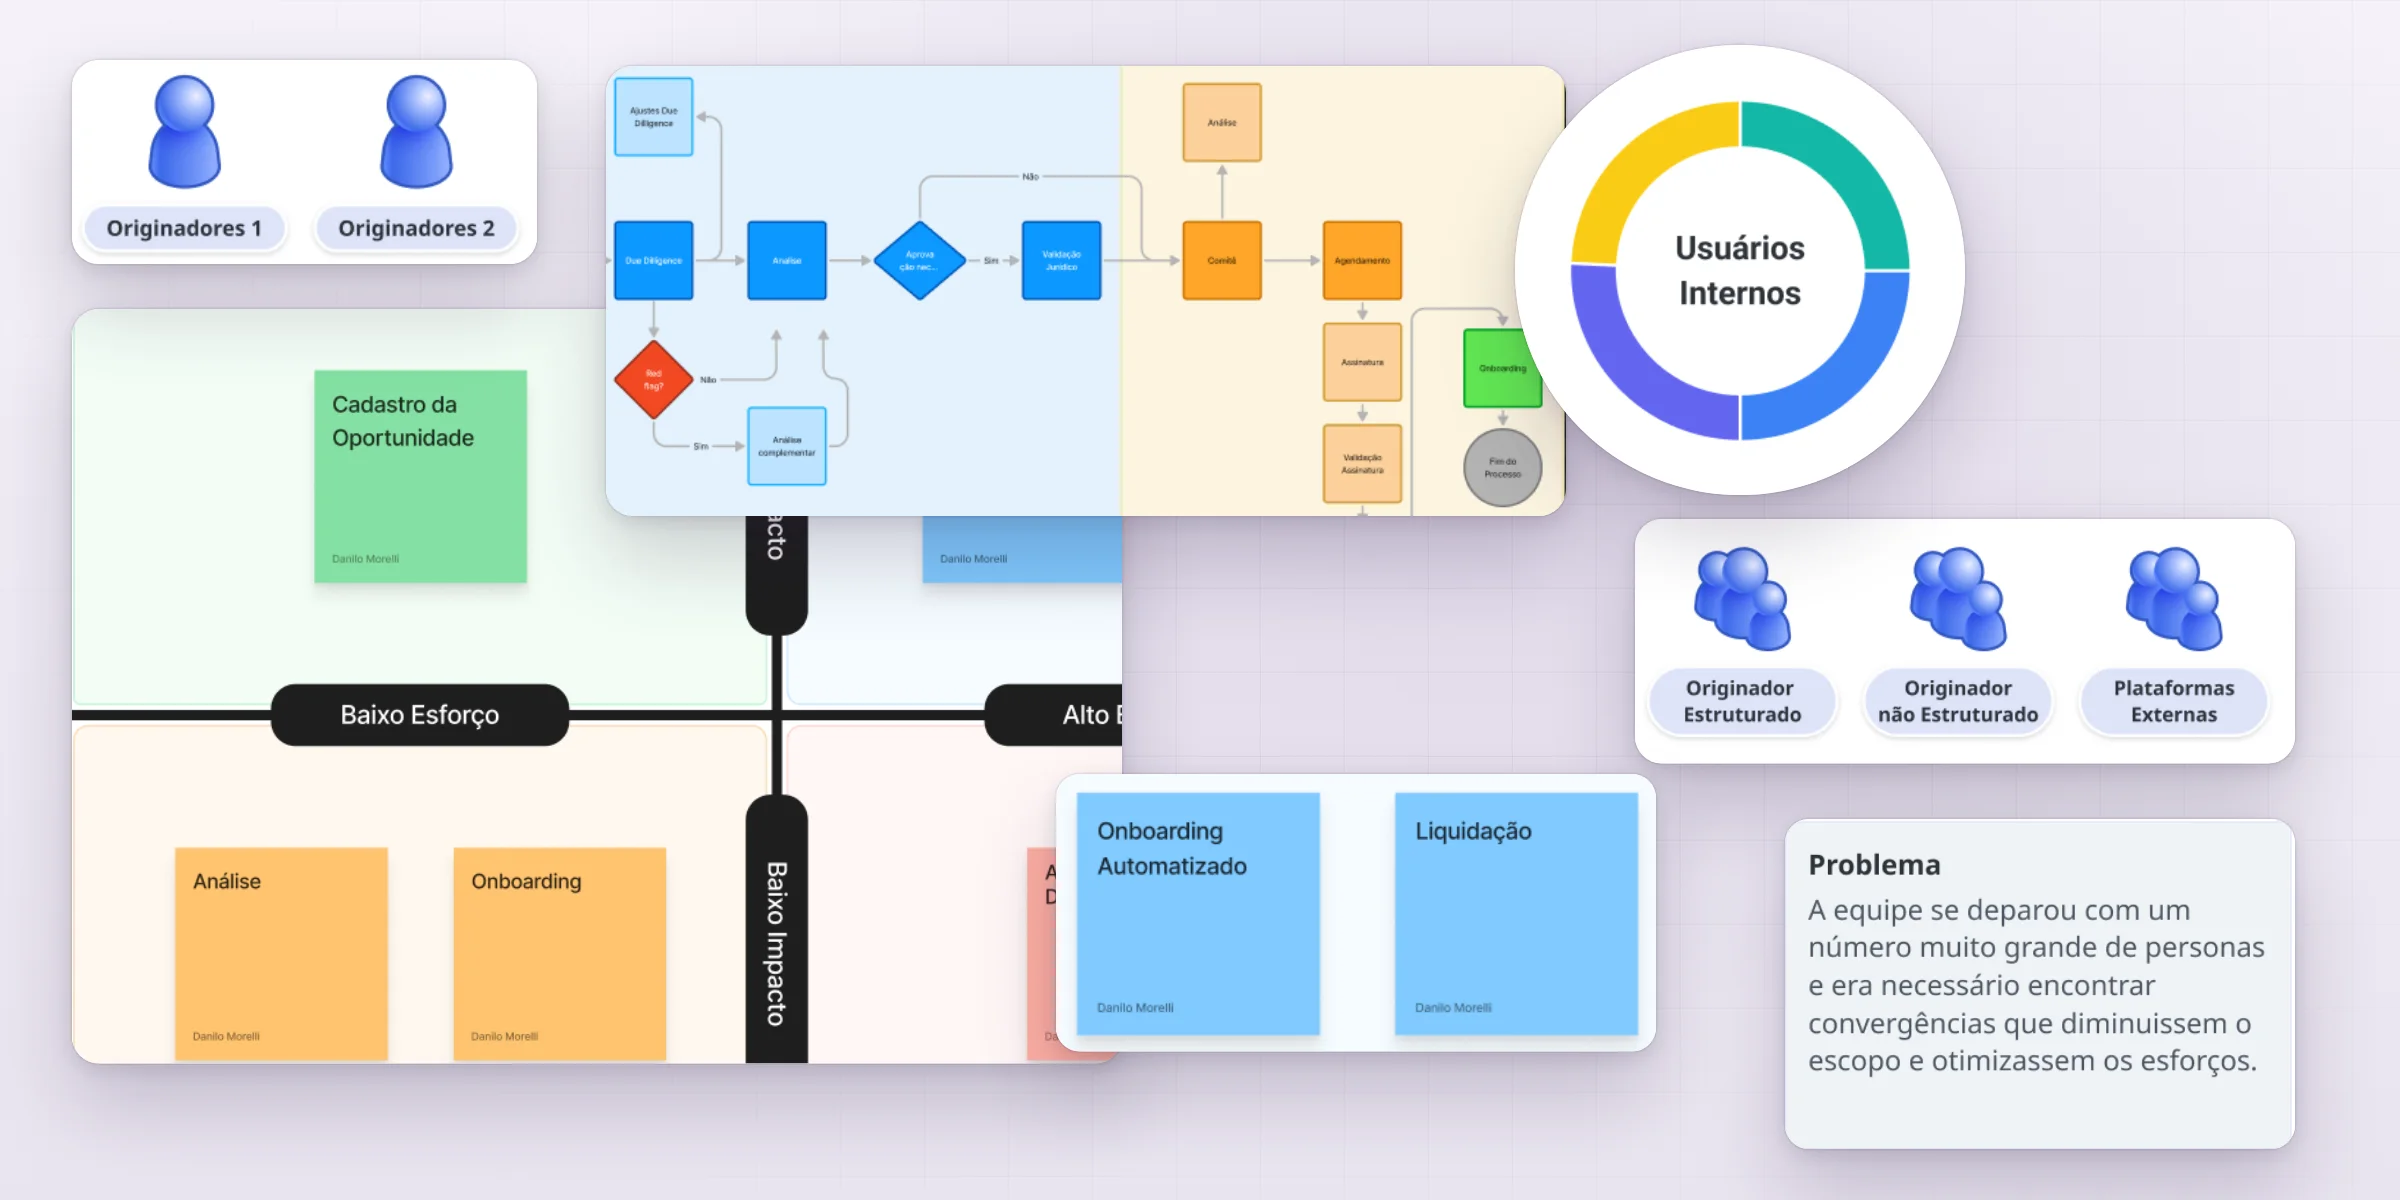
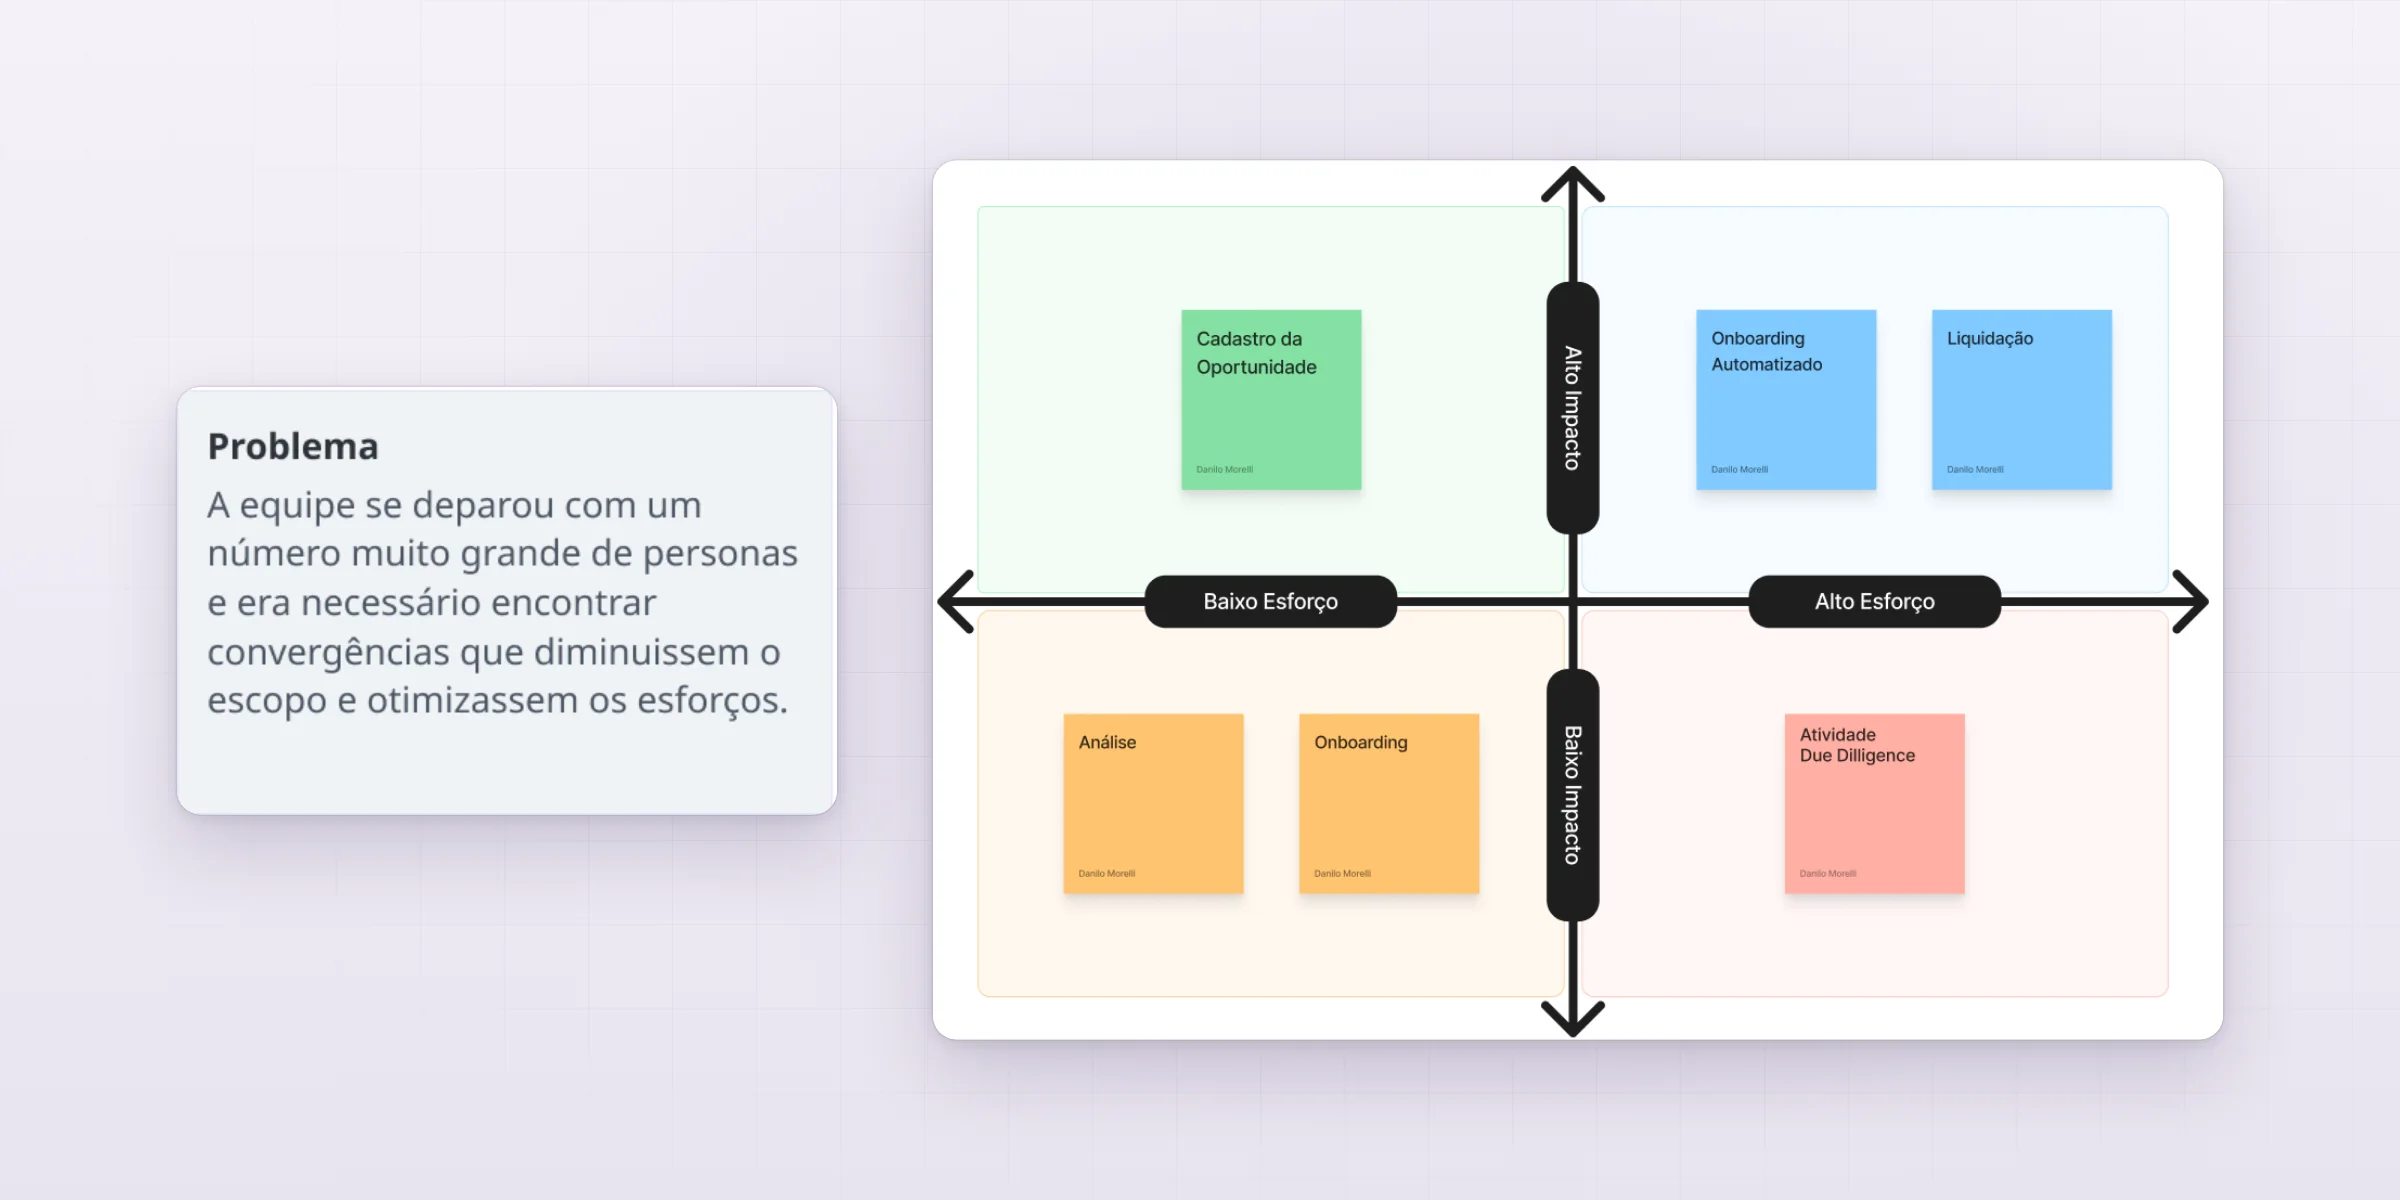
Atualizações 17/11 4

diff --git a/build/capas/capa_of_C.html b/build/capas/capa_of_C.html
@@ -1,0 +1,7 @@
+<!doctype html><html><head><meta charset="utf-8"><link rel="stylesheet" href="capa.css"><style>
+.t{position:absolute;overflow:hidden;background:#fff;border-radius:16px;box-shadow:0 24px 50px rgba(38,24,60,.16),0 3px 10px rgba(38,24,60,.10),0 0 0 1px rgba(26,20,38,.07)}
+.t img{display:block;width:100%;height:100%;object-fit:cover}
+.ar{position:absolute;height:2px;background:#69458D;opacity:.55}
+.ar::after{content:"";position:absolute;right:-2px;top:-5px;border:6px solid transparent;border-left:9px solid #69458D}
+.dot{position:absolute;width:12px;height:12px;border-radius:50%;background:#C6DE64;box-shadow:0 0 0 4px rgba(198,222,100,.25)}
+.hl{box-shadow:0 24px 50px rgba(38,24,60,.18),0 0 0 3px #C6DE64,0 0 0 9px rgba(198,222,100,.25)!important}</style></head><body><div class="stage" style="--glow:rgba(105,69,141,.13);--gx:62%;--gy:40%"><div class="t" style="left:118px;top:258px;width:440px;height:285px;z-index:3;border-radius:16px"><img src="src/c_prob.png"></div><div class="t" style="left:622px;top:107px;width:860px;height:586px;z-index:2;border-radius:16px"><img src="src/c_matriz.png"></div></div></body></html>

diff --git a/index.html b/index.html
@@ -91,7 +91,7 @@
       </article>
       <article class="case">
         <div class="case-cover">
-          <a class="cover-link" href="cases/open-flow-labs.html" tabindex="-1" aria-hidden="true"><img src="assets/projects/capa-openflow.webp?v=20261117" alt="" loading="lazy" width="1600" height="800"></a>
+          <a class="cover-link" href="cases/open-flow-labs.html" tabindex="-1" aria-hidden="true"><img src="assets/projects/capa-openflow.webp?v=20261117c" alt="" loading="lazy" width="1600" height="800"></a>
         </div>
         <div class="case-meta">
           <p class="case-who"><b>03</b>Open Flow Labs<br>User Research<br><span class="case-date">2020 — 2021</span></p>
